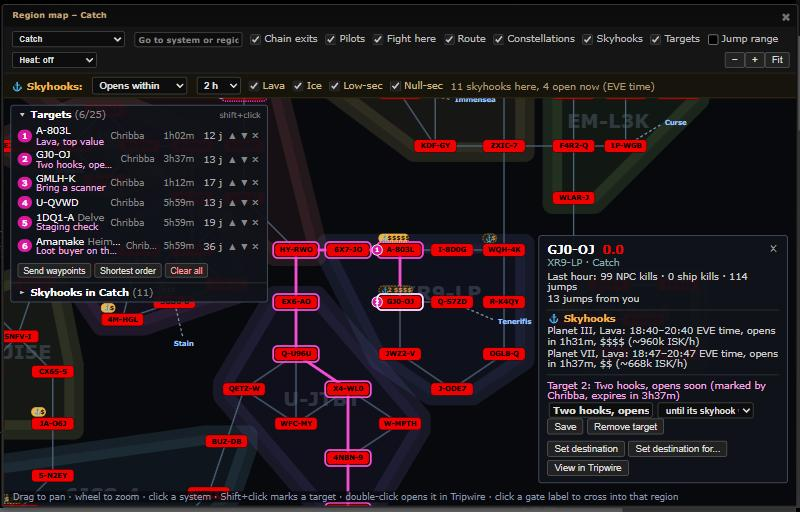
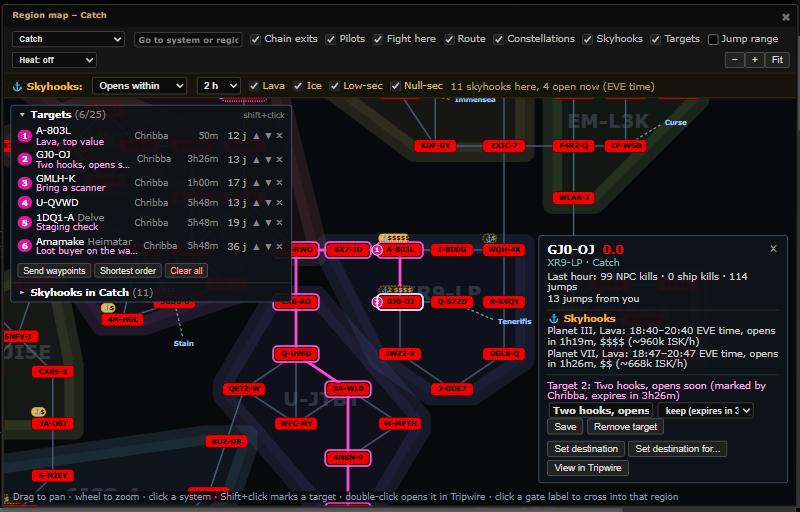
Region map targets: review round 1 fixes
Saving only a note keeps the target's expiry (card preselects keep; no expiry sent = kept);
add is one transaction (rows locked, INSERT ... ON DUPLICATE KEY UPDATE) so concurrent adds
can't pass the cap or collide; expired targets count as none for Shift+click / Ctrl+K;
expiry countdowns tick with Skyhooks off; audit expiry with the date when more than a day
away; targets list header/body rendered separately; screenshots retaken (PNG).

diff --git a/app/js/fork/region-map-view.js b/app/js/fork/region-map-view.js
@@ -283,10 +283,11 @@ if (typeof window !== "undefined" && typeof document !== "undefined" && typeof j
 				const s = layout.byId[t.systemID];
 				if (!s) { return; }
 				outline(L.tags, s, "rm-target", 3);
-				const g = el("g", { "class": "rm-tnum", transform: "translate(" + (s.x - rm.BOX_W / 2 - 3).toFixed(1) + " " + s.y.toFixed(1) + ")" }, L.tags);
+				const g = el("g", { "class": "rm-tnum", "data-id": s.id, transform: "translate(" + (s.x - rm.BOX_W / 2 - 3).toFixed(1) + " " + s.y.toFixed(1) + ")" }, L.tags);
 				el("circle", { r: 9 }, g);
 				el("text", { y: 4, "text-anchor": "middle" }, g, String(i + 1));
-				el("title", null, g).textContent = targetLine(t, i + 1, tc.now);
+				state.nodes[s.id].tnum = el("title", null, g);
+				state.nodes[s.id].tnum.textContent = targetLine(t, i + 1, tc.now);
 			});
 		}
 
@@ -303,8 +304,10 @@ if (typeof window !== "undefined" && typeof document !== "undefined" && typeof j
 			if (!tc || !mapTargets.canTarget(appData.systems[id])) { return ""; }
 			const e = rm.escape, hit = tc.numbers[id];
 			const end = tStore().skyhookEnd(id), def = mapTargets.defaultExpiry(end, tc.now);
-			const choices = (def.until ? [["skyhook", "until its skyhook window ends"]] : []).concat(mapTargets.HOURS.map(function(h) { return [String(h), h + " h"]; }));
-			const sel = def.until ? "skyhook" : String(def.hours);
+			// An existing target keeps its expiry unless another one is picked (saving only a note must not reset it)
+			const choices = (hit ? [["keep", "keep (expires in " + mapTargets.duration(hit.target.expires - tc.now) + ")"]] : [])
+				.concat(def.until ? [["skyhook", "until its skyhook window ends"]] : []).concat(mapTargets.HOURS.map(function(h) { return [String(h), h + " h"]; }));
+			const sel = hit ? "keep" : def.until ? "skyhook" : String(def.hours);
 			const expiry = "<select class='rm-texpiry' title='When the target goes away by itself'>" + choices.map(function(c) {
 				return "<option value='" + c[0] + "'" + (c[0] === sel ? " selected" : "") + ">" + e(c[1]) + "</option>";
 			}).join("") + "</select>";
@@ -325,14 +328,14 @@ if (typeof window !== "undefined" && typeof document !== "undefined" && typeof j
 			if (!tc) { $side.find(".rm-side-targets").remove(); return; }
 			let $sec = $side.find(".rm-side-targets");
 			if (!$sec.length) { $sec = $("<div class='rm-side-sec rm-side-targets'></div>").prependTo($side); }
-			if ($sec.find(":focus").is("select, input")) { return; }
 			const e = rm.escape, collapsed = ctx.cfg.collapsed.targets;
 			const origins = skyOrigins(ctx.me);
 			let jumps = {};
 			if (!collapsed && tc.list.length && origins.ids.length && skyStore()) { try { jumps = skyStore().jumpsFrom(origins.ids); } catch (err) { jumps = {}; } }
 			const from = origins.from === "you" ? "from you" : origins.from === "exit" ? "from the nearest chain exit" : "";
-			let html = "<div class='rm-side-head'><a href='#' class='rm-side-toggle' data-list='targets' title='" + (collapsed ? "Show the list" : "Hide the list") + "'>" + (collapsed ? "&#9656;" : "&#9662;") + "</a> "
-				+ "<b>Targets</b> <span class='rm-muted'>(" + tc.list.length + "/" + mapTargets.MAX + ")</span><span class='rm-thint rm-muted' title='Shift+click a system on the map to mark or remove it'>shift+click</span></div>";
+			const head = "<a href='#' class='rm-side-toggle' data-list='targets' title='" + (collapsed ? "Show the list" : "Hide the list") + "'>" + (collapsed ? "&#9656;" : "&#9662;") + "</a> "
+				+ "<b>Targets</b> <span class='rm-muted'>(" + tc.list.length + "/" + mapTargets.MAX + ")</span><span class='rm-thint rm-muted' title='Shift+click a system on the map to mark or remove it'>shift+click</span>";
+			let html = "";
 			if (!collapsed) {
 				if (!tc.loaded) { html += "<div class='rm-muted rm-side-note'>" + e(tc.error || "Loading\u2026") + "</div>"; }
 				else if (!tc.list.length) { html += "<div class='rm-muted rm-side-note'>No targets. Select a system and click \u201cMark as target\u201d, or Shift+click it. The whole mask sees them.</div>"; }
@@ -355,7 +358,10 @@ if (typeof window !== "undefined" && typeof document !== "undefined" && typeof j
 						+ "<button class='rm-tclear' title='Remove every target of the mask'>Clear all</button> <span class='rm-tsend-status rm-muted'></span></div>";
 				}
 			}
-			if ($sec.attr("data-html") !== html) { $sec.html(html).attr("data-html", html); }
+			// keep the sending progress line while the list is redrawn
+			const status = $sec.find(".rm-tsend-status").text();
+			setSection($sec, head, html);
+			if (status) { $sec.find(".rm-tsend-status").text(status); }
 		}
 
 		function targetIDs() { const tc = state.lastTargets; return tc ? tc.list.map(function(t) { return t.systemID; }) : []; }
@@ -455,7 +461,6 @@ if (typeof window !== "undefined" && typeof document !== "undefined" && typeof j
 			if (!sky) { $side.find(".rm-side-sky").remove(); return; }
 			let $sec = $side.find(".rm-side-sky");
 			if (!$sec.length) { $sec = $("<div class='rm-side-sec rm-side-sky'></div>").appendTo($side); }
-			if ($sec.find(":focus").is("select")) { return; }
 			const e = rm.escape, sp = skyhooksPanel, collapsed = ctx.cfg.collapsed.skyhooks;
 			const rows = sky.loading ? [] : rs.regionRows(sky.bySys, sky.ids, skyJumps(sky), sky.cfg.sort);
 			let head = "<a href='#' class='rm-side-toggle' data-list='skyhooks' title='" + (collapsed ? "Show the list" : "Hide the list") + "'>" + (collapsed ? "&#9656;" : "&#9662;") + "</a> "
@@ -568,10 +573,11 @@ if (typeof window !== "undefined" && typeof document !== "undefined" && typeof j
 				ctx.targets && [ctx.targets.loaded, ctx.targets.error, ctx.targets.sig]]);
 			state.lastSky = sky;
 			state.lastTargets = ctx.targets;
-			const tick = sky ? Math.floor(sky.now / SKY_TICK_S) : 0;
+			// Countdowns (skyhook windows, target expiries) tick every 30 s
+			const tick = sky || ctx.targets ? Math.floor((sky ? sky.now : ctx.targets.now) / SKY_TICK_S) : 0;
 			if (!force && sig === state.signature) {
 				// Only the countdowns changed: rewrite the texts (tooltips, card, list), keep the drawing
-				if (sky && tick !== state.skyTick) { state.skyTick = tick; texts(ctx); }
+				if (tick && tick !== state.skyTick) { state.skyTick = tick; texts(ctx); }
 				return;
 			}
 			state.skyTick = tick;
@@ -644,7 +650,7 @@ if (typeof window !== "undefined" && typeof document !== "undefined" && typeof j
 					el("title", null, g).textContent = others + " tracked pilot" + (others === 1 ? "" : "s") + " in " + s.name;
 				}
 			});
-			layout.systems.forEach(function(s) { state.nodes[s.id].sky = null; });
+			layout.systems.forEach(function(s) { state.nodes[s.id].sky = null; state.nodes[s.id].tnum = null; });
 			drawSky(L, layout, sky, ctx.fight, ctx.exits);
 			drawTargets(L, layout, ctx.targets);
 			if (state.sel && layout.byId[state.sel]) { outline(L.tags, layout.byId[state.sel], "rm-selected", 2.5); }
@@ -680,7 +686,10 @@ if (typeof window !== "undefined" && typeof document !== "undefined" && typeof j
 					if (state.nodes[s.id].sky) { state.nodes[s.id].sky.textContent = tip.join("\n"); }
 				}
 				const hit = ctx.targets && ctx.targets.numbers[s.id];
-				if (hit) { parts.push(targetLine(hit.target, hit.n, ctx.targets.now)); }
+				if (hit) {
+					parts.push(targetLine(hit.target, hit.n, ctx.targets.now));
+					if (state.nodes[s.id].tnum) { state.nodes[s.id].tnum.textContent = targetLine(hit.target, hit.n, ctx.targets.now); }
+				}
 				state.nodes[s.id].title.textContent = parts.join("\n");
 			});
 			renderCard(ctx);

diff --git a/app/js/fork/map-targets.js b/app/js/fork/map-targets.js
@@ -71,8 +71,9 @@ const mapTargets = {
 		return { hours: mapTargets.DEFAULT_HOURS, label: mapTargets.DEFAULT_HOURS + " h" };
 	},
 
-	/** The POST parameters of an expiry choice: "skyhook" (with until), or a number of hours */
+	/** The POST parameters of an expiry choice: "keep" (nothing), "skyhook" (with until), or a number of hours */
 	expiryParams: function(choice, until) {
+		if (choice === "keep") { return {}; }	// no expiry sent: the server keeps the target's current one
 		if (choice === "skyhook" && Number(until) > 0) { return { until: String(Math.floor(Number(until))) }; }
 		const h = Number(choice);
 		return { hours: String(mapTargets.HOURS.indexOf(h) >= 0 ? h : mapTargets.DEFAULT_HOURS) };
@@ -254,7 +255,8 @@ if (typeof window !== "undefined" && typeof document !== "undefined" && typeof j
 			return { list: mt.live(state.list, now()), loaded: state.loadedAt > 0, error: state.error, now: now() };
 		}
 
-		function find(id) { return state.list.filter(function(t) { return t.systemID === Number(id); })[0] || null; }
+		/** A live target (an expired one that the server hasn't purged yet counts as none) */
+		function find(id) { return mt.live(state.list, now()).filter(function(t) { return t.systemID === Number(id); })[0] || null; }
 
 		/** The latest end of the system's raidable skyhook windows (any filter), for the default expiry; 0 when none */
 		function skyhookEnd(id) {

diff --git a/app/js-test/fork/map-targets.test.js b/app/js-test/fork/map-targets.test.js
@@ -56,6 +56,7 @@ describe('Map targets', () => {
 			assert.deepEqual(mt.expiryParams('3'), { hours: '3' });
 			assert.deepEqual(mt.expiryParams('5'), { hours: '6' });
 			assert.deepEqual(mt.expiryParams('skyhook', 0), { hours: '6' });
+			assert.deepEqual(mt.expiryParams('keep'), {});	// an existing target keeps its expiry
 		});
 		it('duration text', () => {
 			assert.equal(mt.duration(2 * 3600 + 600), '2h10m');

diff --git a/map_targets.inc.php b/map_targets.inc.php
@@ -110,31 +110,57 @@ function map_targets_count($mysql, $mask) {
 	return (int)map_targets_exec($stmt, 'count fork_map_targets')->fetchColumn();
 }
 
-/** Add a target at the end of the list, or (already a target) change its note and expiry. @return 'add' or 'update' */
-function map_targets_add($mysql, $mask, $systemID, $note, $expires, $who, $now) {
-	$existing = map_targets_get($mysql, $mask, $systemID);
-	if ($existing) {
-		$stmt = $mysql->prepare('UPDATE fork_map_targets SET note = :note, expires = :expires WHERE maskID = :mask AND systemID = :systemID');
-		if ($stmt) {
-			$stmt->bindValue(':note', $note); $stmt->bindValue(':expires', $expires, PDO::PARAM_INT);
-			$stmt->bindValue(':mask', $mask); $stmt->bindValue(':systemID', $systemID, PDO::PARAM_INT);
+/** Add a target at the end of the list, or (already a target) change its note, and its expiry unless $expires is null
+	(null for a new target: the default 6 h). One transaction that locks the mask's rows first (SELECT ... FOR UPDATE, which
+	also locks the gap where a new row of the mask would go), so two members adding at the same time can neither pass the
+	cap together nor collide on the primary key; the write itself is INSERT ... ON DUPLICATE KEY UPDATE.
+	@return 'add', 'update' or 'full' (a new target and the mask has $max already) */
+function map_targets_add($mysql, $mask, $systemID, $note, $expires, $who, $now, $max = MAP_TARGETS_MAX_PER_MASK) {
+	$own = !$mysql->inTransaction();
+	if ($own && !$mysql->beginTransaction()) throw new PDOException('Could not start a transaction');
+	try {
+		$stmt = $mysql->prepare('SELECT systemID, ord, expires FROM fork_map_targets WHERE maskID = :mask FOR UPDATE');
+		if ($stmt) $stmt->bindValue(':mask', $mask);
+		$rows = map_targets_exec($stmt, 'lock fork_map_targets')->fetchAll(PDO::FETCH_ASSOC);
+		$exists = false;
+		$live = 0;
+		$maxOrd = -1;
+		foreach ($rows as $row) {
+			if ((int)$row['expires'] <= $now) continue;	// expired: purged below, doesn't count
+			$live++;
+			$maxOrd = max($maxOrd, (int)$row['ord']);
+			if ((int)$row['systemID'] === (int)$systemID) $exists = true;
 		}
-		map_targets_exec($stmt, 'update fork_map_targets');
-		return 'update';
+		if (!$exists && $live >= $max) {
+			if ($own) $mysql->rollBack();
+			return 'full';
+		}
+		$purge = $mysql->prepare('DELETE FROM fork_map_targets WHERE maskID = :mask AND expires <= :now');
+		if ($purge) { $purge->bindValue(':mask', $mask); $purge->bindValue(':now', $now, PDO::PARAM_INT); }
+		map_targets_exec($purge, 'purge fork_map_targets');
+
+		$stmt = $mysql->prepare('INSERT INTO fork_map_targets (maskID, systemID, note, ord, createdByID, createdByName, created, expires)
+			VALUES (:mask, :systemID, :note, :ord, :byID, :byName, :created, :expires)
+			ON DUPLICATE KEY UPDATE note = :note2, expires = COALESCE(:keep, expires)');
+		if ($stmt) {
+			$stmt->bindValue(':mask', $mask);
+			$stmt->bindValue(':systemID', $systemID, PDO::PARAM_INT);
+			$stmt->bindValue(':note', $note);
+			$stmt->bindValue(':note2', $note);
+			$stmt->bindValue(':ord', $maxOrd + 1, PDO::PARAM_INT);
+			$stmt->bindValue(':byID', (int)$who['id'], PDO::PARAM_INT);
+			$stmt->bindValue(':byName', mb_substr((string)$who['name'], 0, 100, 'UTF-8'));
+			$stmt->bindValue(':created', $now, PDO::PARAM_INT);
+			$stmt->bindValue(':expires', $expires === null ? $now + 6 * 3600 : $expires, PDO::PARAM_INT);
+			$stmt->bindValue(':keep', $expires, $expires === null ? PDO::PARAM_NULL : PDO::PARAM_INT);
+		}
+		map_targets_exec($stmt, 'add to fork_map_targets');
+		if ($own) $mysql->commit();
+		return $exists ? 'update' : 'add';
+	} catch (Throwable $e) {
+		if ($own && $mysql->inTransaction()) $mysql->rollBack();
+		throw $e;
 	}
-	$stmt = $mysql->prepare('INSERT INTO fork_map_targets (maskID, systemID, note, ord, createdByID, createdByName, created, expires)
-		SELECT :mask, :systemID, :note, COALESCE(MAX(ord), -1) + 1, :byID, :byName, :created, :expires FROM fork_map_targets WHERE maskID = :mask2');
-	if ($stmt) {
-		$stmt->bindValue(':mask', $mask); $stmt->bindValue(':mask2', $mask);
-		$stmt->bindValue(':systemID', $systemID, PDO::PARAM_INT);
-		$stmt->bindValue(':note', $note);
-		$stmt->bindValue(':byID', (int)$who['id'], PDO::PARAM_INT);
-		$stmt->bindValue(':byName', mb_substr((string)$who['name'], 0, 100, 'UTF-8'));
-		$stmt->bindValue(':created', $now, PDO::PARAM_INT);
-		$stmt->bindValue(':expires', $expires, PDO::PARAM_INT);
-	}
-	map_targets_exec($stmt, 'add to fork_map_targets');
-	return 'add';
 }
 
 /** Remove one target; returns whether there was one */

diff --git a/tests/map_targets_endpoint_test.php b/tests/map_targets_endpoint_test.php
@@ -116,6 +116,9 @@ check('same mask, other member: sees it and adds at the end', ids($body), [AMAMA
 check('second target by the other member', $body['targets'][1]['createdBy']['name'], 'Other Pilot');
 [$status, $body] = call('POST', ['mode' => 'add', 'systemID' => AMAMAKE, 'note' => 'new note', 'hours' => '24']);
 check('add again: note and expiry changed, order kept, still two', [ids($body), $body['targets'][0]['note'], $body['targets'][0]['expires'] - $body['now']], [[AMAMAKE, EC_P8R], 'new note', 86400]);
+$expiresBefore = $body['targets'][0]['expires'];
+[$status, $body] = call('POST', ['mode' => 'add', 'systemID' => AMAMAKE, 'note' => 'only the note']);
+check('note only (no expiry sent): the expiry is kept', [$status, $body['targets'][0]['note'], $body['targets'][0]['expires']], [200, 'only the note', $expiresBefore]);
 [$status, $body] = call('POST', ['mode' => 'reorder', 'order' => EC_P8R . ',' . AMAMAKE]);
 check('reorder', [$status, ids($body)], [200, [EC_P8R, AMAMAKE]]);
 [$status, $body] = call('POST', ['mode' => 'add', 'systemID' => JITA]);
@@ -153,7 +156,12 @@ check('clear', [$status, $body['targets']], [200, []]);
 // --- Audit entries (when the audit log records) ---
 if (audit_days() > 0) {
 	check('audit: add, add (other member), update, add, delete, clear', audit_actions($mysql),
-		['add:' . AMAMAKE, 'add:' . EC_P8R, 'update:' . AMAMAKE, 'add:' . JITA, 'delete:' . AMAMAKE, 'clear:0']);
+		['add:' . AMAMAKE, 'add:' . EC_P8R, 'update:' . AMAMAKE, 'update:' . AMAMAKE, 'add:' . JITA, 'delete:' . AMAMAKE, 'clear:0']);
+	$row = $mysql->query("SELECT detail FROM fork_audit_log WHERE maskID = " . MASK_A . " AND entity = 'target' AND action = 'add' ORDER BY id LIMIT 1")->fetchColumn();
+	check('audit: the expiry is HH:MM within a day', preg_match('/^\{"expires":"\d\d:\d\d"\}$/', (string)$row), 1);
+	call('POST', ['mode' => 'add', 'systemID' => AMAMAKE, 'until' => (string)(time() + 2 * 86400)]);
+	$row = $mysql->query("SELECT detail FROM fork_audit_log WHERE maskID = " . MASK_A . " AND entity = 'target' ORDER BY id DESC LIMIT 1")->fetchColumn();
+	check('audit: with the date when more than a day away', preg_match('/^\{"expires":"\d\d-\d\d \d\d:\d\d"\}$/', (string)$row), 1);
 }
 
 // --- Cap per mask ---
@@ -162,8 +170,16 @@ $known = array_keys(jump_jammed_known_systems());
 $who = ['id' => CHAR_A, 'name' => 'Filler'];
 for ($i = 0; $i < MAP_TARGETS_MAX_PER_MASK; $i++) map_targets_add($mysql, MASK_A, $known[$i], '', time() + 3600, $who, time());
 check('cap: one more is refused', call('POST', ['mode' => 'add', 'systemID' => $known[MAP_TARGETS_MAX_PER_MASK]])[0], 409);
+check('cap: the storage function says full', map_targets_add($mysql, MASK_A, $known[MAP_TARGETS_MAX_PER_MASK], '', time() + 3600, $who, time()), 'full');
+check('cap: nothing left in a transaction', $mysql->inTransaction(), false);
 check('cap: changing a target is fine', call('POST', ['mode' => 'add', 'systemID' => $known[0], 'note' => 'x'])[0], 200);
 check('cap: order numbers 0..24', array_map(function ($t) { return $t['ord']; }, map_targets_list($mysql, MASK_A, time())), range(0, MAP_TARGETS_MAX_PER_MASK - 1));
+$mysql->exec('UPDATE fork_map_targets SET expires = ' . (time() - 5) . ' WHERE maskID = ' . MASK_A . ' AND systemID = ' . $known[3]);
+check('cap: an expired target frees its place', map_targets_add($mysql, MASK_A, $known[MAP_TARGETS_MAX_PER_MASK], '', null, $who, time()), 'add');
+$new = map_targets_get($mysql, MASK_A, $known[MAP_TARGETS_MAX_PER_MASK]);
+check('cap: the new one goes last, default 6 h', [(int)$new['ord'], (int)$new['expires'] - time() > 6 * 3600 - 10], [MAP_TARGETS_MAX_PER_MASK, true]);
+check('cap: the expired one was purged', map_targets_get($mysql, MASK_A, $known[3]), null);
+check('add on an existing row inside the function: update, expiry kept with null', [map_targets_add($mysql, MASK_A, $known[0], 'y', null, $who, time()), (int)map_targets_get($mysql, MASK_A, $known[0])['expires'] > time()], ['update', true]);
 
 cleanup($mysql);
 echo "$count checks, $failures failures\n";

diff --git a/public/map_targets.php b/public/map_targets.php
@@ -72,13 +72,18 @@ try {
 			if ($systemID === false) map_targets_fail(400, 'Invalid systemID (k-space systems only)');
 			$note = map_targets_note(isset($_POST['note']) ? $_POST['note'] : '');
 			if ($note === false) map_targets_fail(400, 'Invalid note');
-			$expires = map_targets_expiry(isset($_POST['hours']) ? $_POST['hours'] : null, isset($_POST['until']) ? $_POST['until'] : null, $now);
+			$hours = isset($_POST['hours']) ? $_POST['hours'] : null;
+			$until = isset($_POST['until']) ? $_POST['until'] : null;
+			// Neither given: an existing target keeps its expiry (the card's "keep" choice), a new one gets the default
+			$keep = ($hours === null || $hours === '') && ($until === null || $until === '');
+			$expires = $keep ? null : map_targets_expiry($hours, $until, $now);
 			if ($expires === false) map_targets_fail(400, 'Invalid expiry');
-			if (!map_targets_get($mysql, $mask, $systemID) && map_targets_count($mysql, $mask) >= MAP_TARGETS_MAX_PER_MASK) {
-				map_targets_fail(409, 'At most ' . MAP_TARGETS_MAX_PER_MASK . ' targets per mask');
-			}
 			$action = map_targets_add($mysql, $mask, $systemID, $note, $expires, $who, $now);
-			$audit($action, $systemID, $note, array('expires' => gmdate('H:i', $expires)));
+			if ($action === 'full') map_targets_fail(409, 'At most ' . MAP_TARGETS_MAX_PER_MASK . ' targets per mask');
+			$row = map_targets_get($mysql, $mask, $systemID);
+			$at = $row ? (int)$row['expires'] : 0;
+			// "HH:MM" EVE time when it is within a day, with the date ("10-15 18:20") when further away
+			$audit($action, $systemID, $note, $at ? array('expires' => gmdate($at - $now > 86400 ? 'm-d H:i' : 'H:i', $at)) : array());
 		} else if ($mode === 'remove') {
 			$systemID = map_targets_system_id(isset($_POST['systemID']) ? $_POST['systemID'] : '');
 			if ($systemID === false) map_targets_fail(400, 'Invalid systemID');

diff --git a/changes/2026-10-13-region-map-targets/README.md b/changes/2026-10-13-region-map-targets/README.md
@@ -13,7 +13,7 @@ autopilot.
 
 | Before | After |
 | --- | --- |
-| ![before](before.jpg) | ![after](after.png) |
+| ![before](before.png) | ![after](after.png) |
 
 Before: the region map with skyhooks only. After: six targets (one in Delve, one in Heimatar: targets are mask-wide and
 the list shows every region), numbered rings on A-803L and GJ0-OJ, the Targets list (who marked it, expires in, jumps from
@@ -41,10 +41,13 @@ Chain map badge (target 5 on 1DQ1-A): ![chain badge](chain-badge.png)
   target; new ones go last) / remove / clear / reorder. Same rules as `rally.php` / `jump_jammed.php`: logged-in session
   with a mask (canonicalised; the mask guard in `db.inc.php` already checked access), `X-Requested-With` on changes,
   system IDs validated against the k-space list of `public/jumprange/systems.json`, note cleaned (control characters,
-  60 characters), expiry 1/3/6/24 h or "until" at most 7 days ahead, 25 per mask (409 when full). Audit log: add,
+  60 characters), expiry 1/3/6/24 h or "until" at most 7 days ahead (none sent: an existing target keeps its expiry),
+  25 per mask (409 when full; checked and written in one transaction that locks the mask's rows, with INSERT ... ON
+  DUPLICATE KEY UPDATE, so concurrent adds can't pass the cap or collide). Audit log: add,
   update, delete and clear as entity `target` (Mask Admin > Audit shows them, filter "Region map targets").
 - Region map: Shift+click toggles a target; the card has a note field, an expiry choice ("until its skyhook window ends"
-  first when the system has one) and Mark as target / Save / Remove target. Rings and numbered discs on the map, the
+  first when the system has one; for an existing target "keep (expires in ...)" is preselected, so saving a note keeps
+  the expiry) and Mark as target / Save / Remove target. Rings and numbered discs on the map, the
   number and note in the tooltip. The side panel's "Targets (N/25)" list: order, system (region when elsewhere: click
   opens that region), note, who marked it, expires in, jumps from you (else from the nearest chain exit); drag, or the
   up/down arrows, to reorder; remove; "Clear all" (asks first); "Shortest order" (nearest neighbour by gate jumps with
